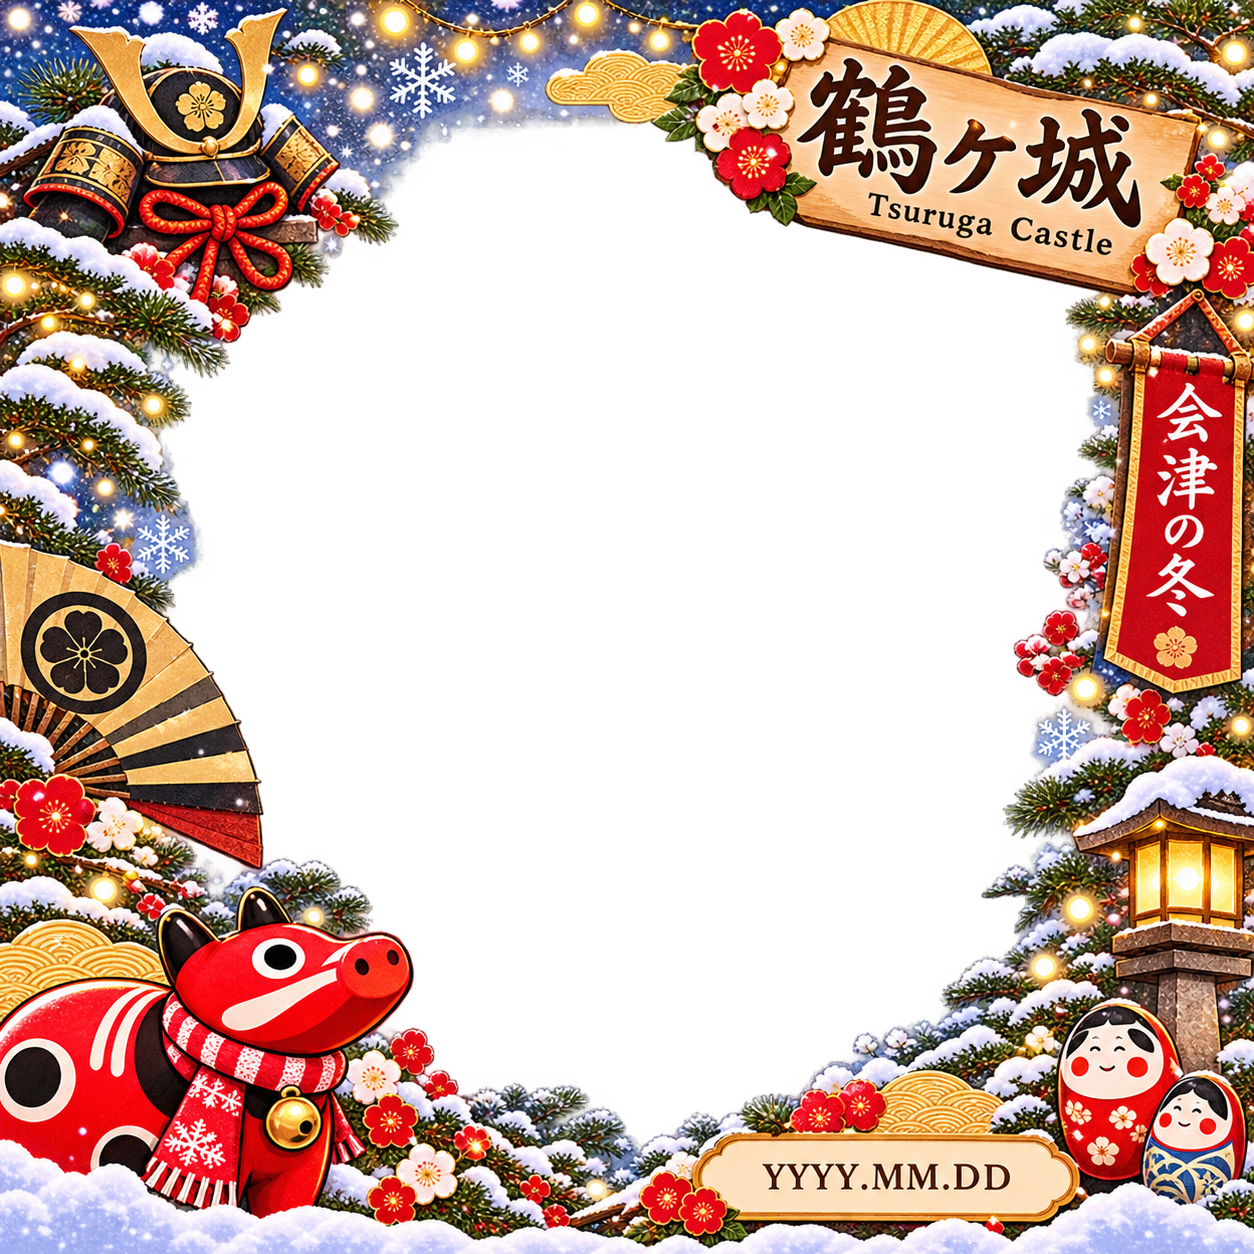
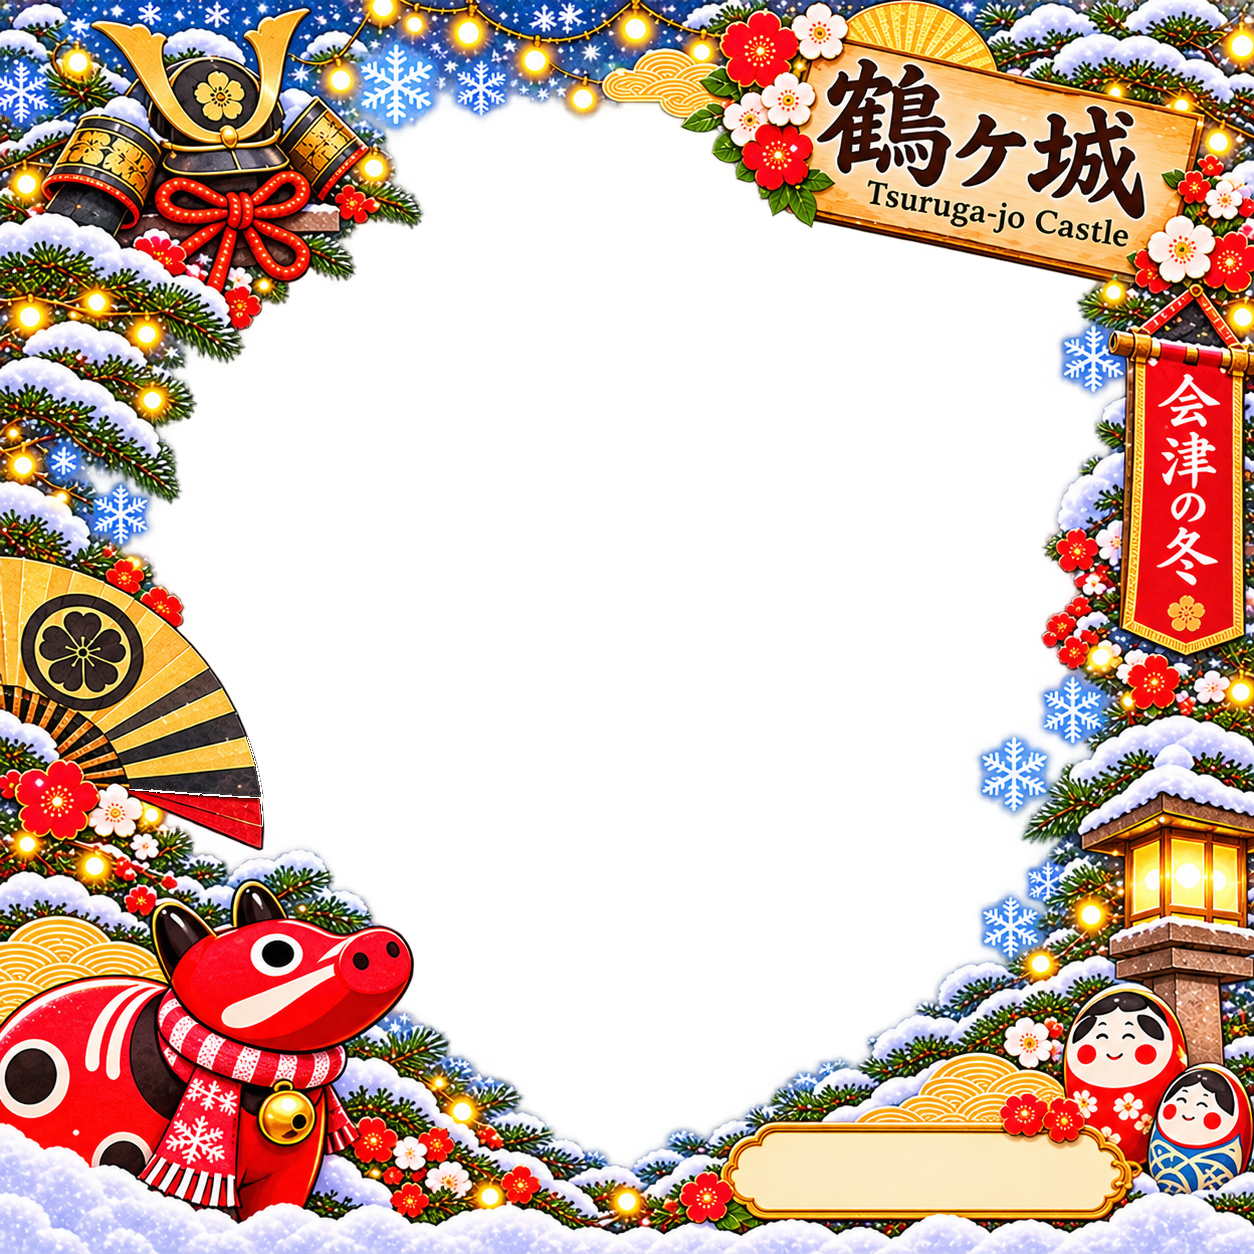
Add files via upload

diff --git a/index.html b/index.html
@@ -16,7 +16,7 @@ h1 { margin:4px 0 2px; font-size:clamp(1.55rem,5vw,2.2rem); }
 video, #preview, #frame { position:absolute; inset:0; width:100%; height:100%; object-fit:cover; }
 #preview { display:none; }
 #frame { pointer-events:none; object-fit:fill; }
-#datePreview { position:absolute; z-index:3; left:68.5%; top:92.0%; width:23%; color:#58331d; font-weight:750; font-size:clamp(10px,2.9vw,17px); letter-spacing:.03em; transform:translateX(-2%); pointer-events:none; }
+#datePreview { position:absolute; z-index:3; left:71.5%; top:92.0%; width:25%; color:#58331d; font-weight:750; font-size:clamp(10px,2.9vw,17px); letter-spacing:.02em; text-align:center; transform:translate(-50%,-50%); pointer-events:none; white-space:nowrap; }
 .controls { display:flex; flex-wrap:wrap; justify-content:center; gap:10px; margin:14px auto; }
 button { border:0; border-radius:999px; padding:13px 19px; min-height:46px; font-size:1rem; font-weight:700; cursor:pointer; background:var(--gold); color:#182b3c; }
 button.secondary { background:#fff; color:#17324c; }
@@ -121,16 +121,13 @@ button:disabled { opacity:.45; cursor:not-allowed; }
   }
 
   function addDate(targetCtx) {
-    // The date replaces the YYYY.MM.DD placeholder inside the illustrated plaque.
+    // The plaque is blank in the frame; add today's date at its center.
     targetCtx.save();
     targetCtx.textAlign = 'center';
     targetCtx.textBaseline = 'middle';
-    // Light cream patch hides the printed YYYY.MM.DD placeholder.
-    targetCtx.fillStyle = '#fff1d7';
-    targetCtx.fillRect(770, 985, 190, 43);
     targetCtx.fillStyle = '#58331d';
-    targetCtx.font = 'bold 34px Georgia, serif';
-    targetCtx.fillText(dateText(), 865, 1007);
+    targetCtx.font = 'bold 29px Georgia, serif';
+    targetCtx.fillText(dateText(), 770, 990);
     targetCtx.restore();
   }
 
